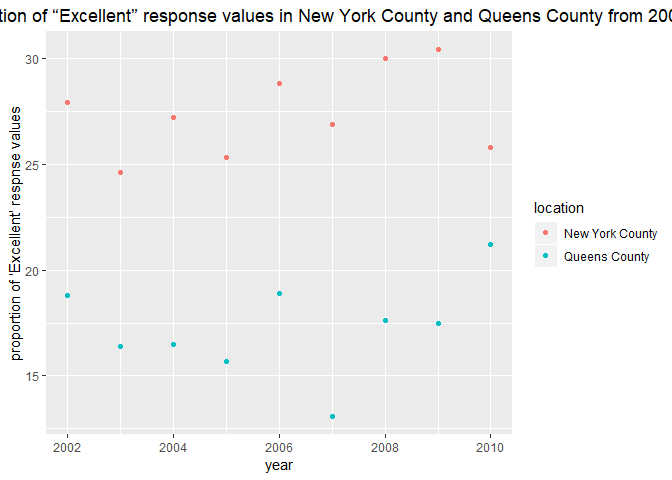
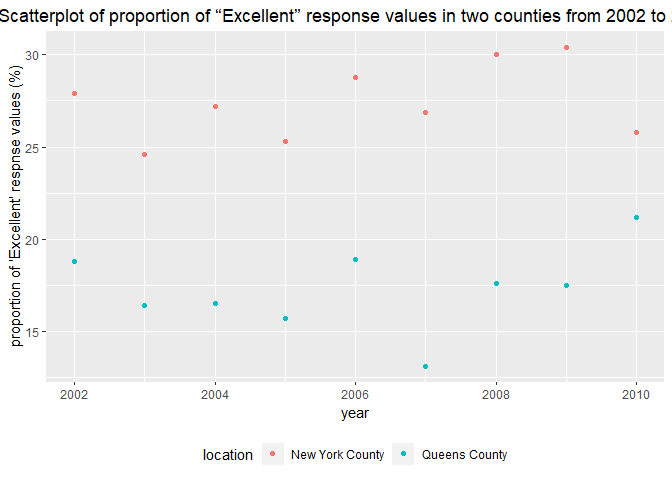
Improve my solution to problem 3.

diff --git a/p8105_hw2_jy2944.md b/p8105_hw2_jy2944.md
@@ -179,7 +179,7 @@ brfss_data = brfss_smart2010 %>%
 
 -   In 2002, the median of the proportion of sujects with "Excellent" response value is 23.6%.
 
--   A histogram of "Excellent" response values in the year 2002.
+-   A histogram of "Excellent" response values in the year 2002:
 
 ``` r
 brfss_data %>%
@@ -187,14 +187,14 @@ brfss_data %>%
   ggplot(aes(x = excellent)) + 
   geom_histogram() +
   labs(title = "Histogram of 'Excellent' response values in year 2002", 
-       x = "'Excellent' response values", 
-       y = "Frequency") +
+       x = "'Excellent' response values (%)", 
+       y = "Count") +
   theme(plot.title = element_text(hjust = 0.5)) 
 ```
 
 ![](p8105_hw2_jy2944_files/figure-markdown_github/histogram-1.png)
 
--   Make a scatterplot showing the proportion of “Excellent” response values in New York County and Queens County in each year from 2002 to 2010.
+-   A scatterplot showing the proportion of “Excellent” response values in New York County and Queens County in each year from 2002 to 2010.
 
 ``` r
 brfss_data %>%
@@ -202,9 +202,10 @@ brfss_data %>%
   filter(location == "New York County" | location == "Queens County") %>%
   ggplot(aes(x = year, y = excellent)) +
   geom_point(aes(color = location)) +
-  labs(title = "Scatterplot of the proportion of “Excellent” response values in New York County and Queens County from 2002 to 2010",
-       y = "proportion of 'Excellent' respnse values") +
-  theme(plot.title = element_text(hjust = 0.5)) 
+  labs(title = "Scatterplot of proportion of “Excellent” response values in two counties from 2002 to 2010",
+       y = "proportion of 'Excellent' respnse values (%)") +
+  theme(plot.title = element_text(hjust = 0.5)) +
+  theme(legend.position = "bottom")
 ```
 
 ![](p8105_hw2_jy2944_files/figure-markdown_github/scatterplot-1.png)
